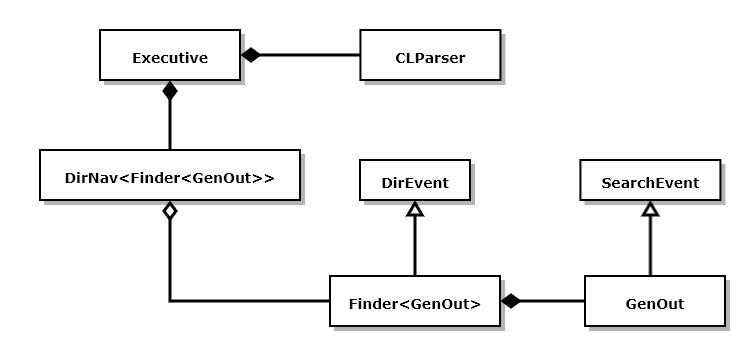
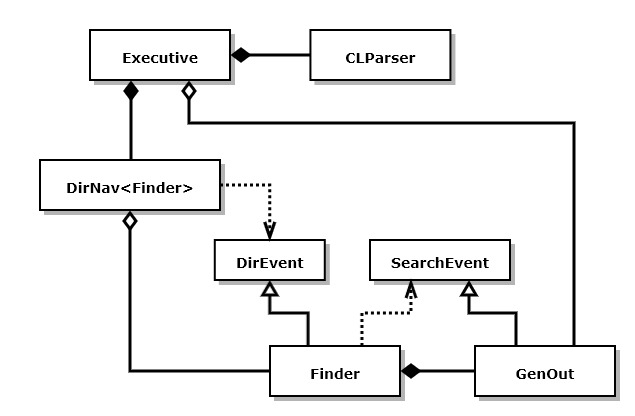
added using relationships to type diagram and text

Changed region(s): [[0.0299, 0.0578, 0.9874, 0.9827]]

diff --git a/Resources/DesignBites/DesignBites_Intro.html b/Resources/DesignBites/DesignBites_Intro.html
@@ -395,11 +395,12 @@
             
           </t-b>
         </div>
-        <h4>1.2 - Specification</h4>
-        <h4>1.3 - Tasks</h4>
-        <h4>1.4 - Structure</h4>
-        <h4>1.5 - Reuse</h4>
-        <h4>1.5 - Flexibility</h4>
+        <h4>5.1 - Data Flow Pattern</h4>
+        <h4>5.2 - Dependency Inversion Principle</h4>
+        <h4>5.3 - Pluggin Pattern</h4>
+        <h4>5.4 - Builder Pattern</h4>
+        <h4>5.5 - Flexibility</h4>
+        <h4>5.6 - Reuse</h4>
         <t-b>
           Abstractions are simpified representations of complex entities, things that are composed of many detailed parts and processing.
         </t-b>
@@ -418,89 +419,6 @@
         </t-b>
       </div> 
     </div>
-    <h3>2. RustComm Abstraction</h3>
-<!--         <div class="indent">-->
-      <t-b>
-        We will use code from the <a href="../../RustComm.html">RustComm</a> repository as an Example for this discussion.
-        RustComm is a message-passing communication system based on Tcp Sockets provided by the Rust std::net library.
-      </t-b>
-      <t-b>
-        Figure 1. is a Universal Modeling Language (UML) class diagram that displays the most important types and traits used
-        in the RustComm implementation.  The main players are <c-s>Connector&lt;M,P,L&gt;</c-s> and
-        <c-s>Listener&lt;P,L&gt;</c-s>.
-      </t-b>
-      <t-b>
-        <c-s>Listener&lt;P,L&gt;</c-s> listens for incoming connection requests, extablishes a connection, and processes
-        received messages, returning a reply for each. P is a generic parameter representing one of a set of processing types that
-        determine what the listener does with incoming messages, and how it replies. L is a generic parameter representing one of a
-        set of loggers used to capture processing events.
-      </t-b>
-      <t-b>
-        <c-s>Connector&lt;M,P,L&gt;</c-s> attempts to establish connections with a listener at a specified endpoint, ipaddress:port.
-        If a connection is established it then sends messages and receives replies.  The generic arguments M, P, and L represent sets
-        of message, processing, and logging types.  Each of them are constrained by traits, some of which are shown in Fig. 1.
-      </t-b>
-      <t-b>
-        The traits <c-s>Msg</c-s>, <c-s>Sndr&lt;&gt;</c-s>, <c-s>Rcvr&lt;&gt;</c-s>, <c-s>Process&lt;M&gt;</c-s> and <c-s>Logger</c-s>
-        each define method signatures that types with those
-        traits are obligated to implement.  Traits say nothing about the implementation of those methods, so each trait establishes a
-        bound on the types that the library uses.
-        <div>
-          <ul>
-            <li>
-              <c-s>Msg</c-s> defines methods that messages provide for managing their contents.  The <c-s>Msg</c-s> trait was designed to support more than
-              one style of message.  RustComm uses fixed header size messages, but <c-s>Msg</c-s> supports other types as well.
-            </li>
-            <li>
-              <c-s>Sndr&lt;M&gt;</c-s> and <c-s>Rcvr&lt;M&gt;</c-s> define method signatures for sending and receiving messages.  They are parameterized on
-              a Message type <c-s>M</c-s>, so they can be tailored to the type of messages a library defines.
-            </li>
-            <li>
-              <c-s>Process&lt;M&gt;</c-s> declares methods for processing messages.  Both <c-s>Connector&lt;M,P,L&gt;</c-s> and
-              <c-s>Listener&lt;P,L&gt;</c-s> have process members which are different, but satisfy the same trait bounds.
-            </li>
-            <li>
-              <c-s>Logger</c-s> defines method signatures for writing to log streams in the console or files.
-            </li>
-            <li>
-              The generic parameters: <c-s>M</c-s>, <c-s>P</c-s>, and <c-s>L</c-s> are also bound by some of Rust&apos;s std traits,
-              e.g., <c-s>Debug</c-s>, <c-s>Clone</c-s>, <c-s>Send</c-s>, <c-s>Sync</c-s>, and in some cases <c-s>Copy</c-s>, and <c-s>'static</c-s>.
-            </li>
-          </ul>
-        </div>
-      </t-b>
-      <t-b>
-        <c-s>Connector&lt;M,P,L&gt;</c-s> and <c-s>Listener&lt;P,L&gt;</c-s> use the <c-s>TcpStream</c-s> and <c-s>TcpListener</c-s> types to
-        provide socet-based Tcp messaging infrastructure.
-      </t-b>
-      <t-b>
-        Each of the four layers shown in Fig 1. have a specific role to play in RustComm&apos;s implementation:
-        <div>
-          <ul>
-            <li>
-              The top, traits, layer provides component interfaces that are implementation agnostic.  That means that
-              <c-s>Connector&lt;M,P,L&gt;</c-s> and <c-s>Listener&lt;P,L&gt;</c-s> can easily adopt different messaging and message-passing
-              designs without a lot of breakage, because most of their code uses the trait interfaces.
-            </li>
-            <li>
-              The second, generic parameter layer, supports compile-time substitution of specialized components that tailor RustComm behaviors
-              to meet the needs of a specific design.
-            </li>
-            <li>
-              The third, custom type layer, holds the connector and listener user-defined types.  They provide the framework that supports and
-              uses the first two layers.  It is this layer that using code works with to build communicating processes.
-            </li>
-            <li>
-              The bottom, std libary component, layer provides all of the low level system processing, greatly simplifying implementation
-              of listener and connector.
-            </li>
-          </ul>
-        </div>
-      </t-b>
-      <t-b>
-        You can access all of the code for RustComm in this <a href="https://github.com/JimFawcett/RustComm">Repository</a>.
-      </t-b>
-    </div>      
     <h3>3. Epilogue</h3>
     <div class="indent">
       <t-b>
